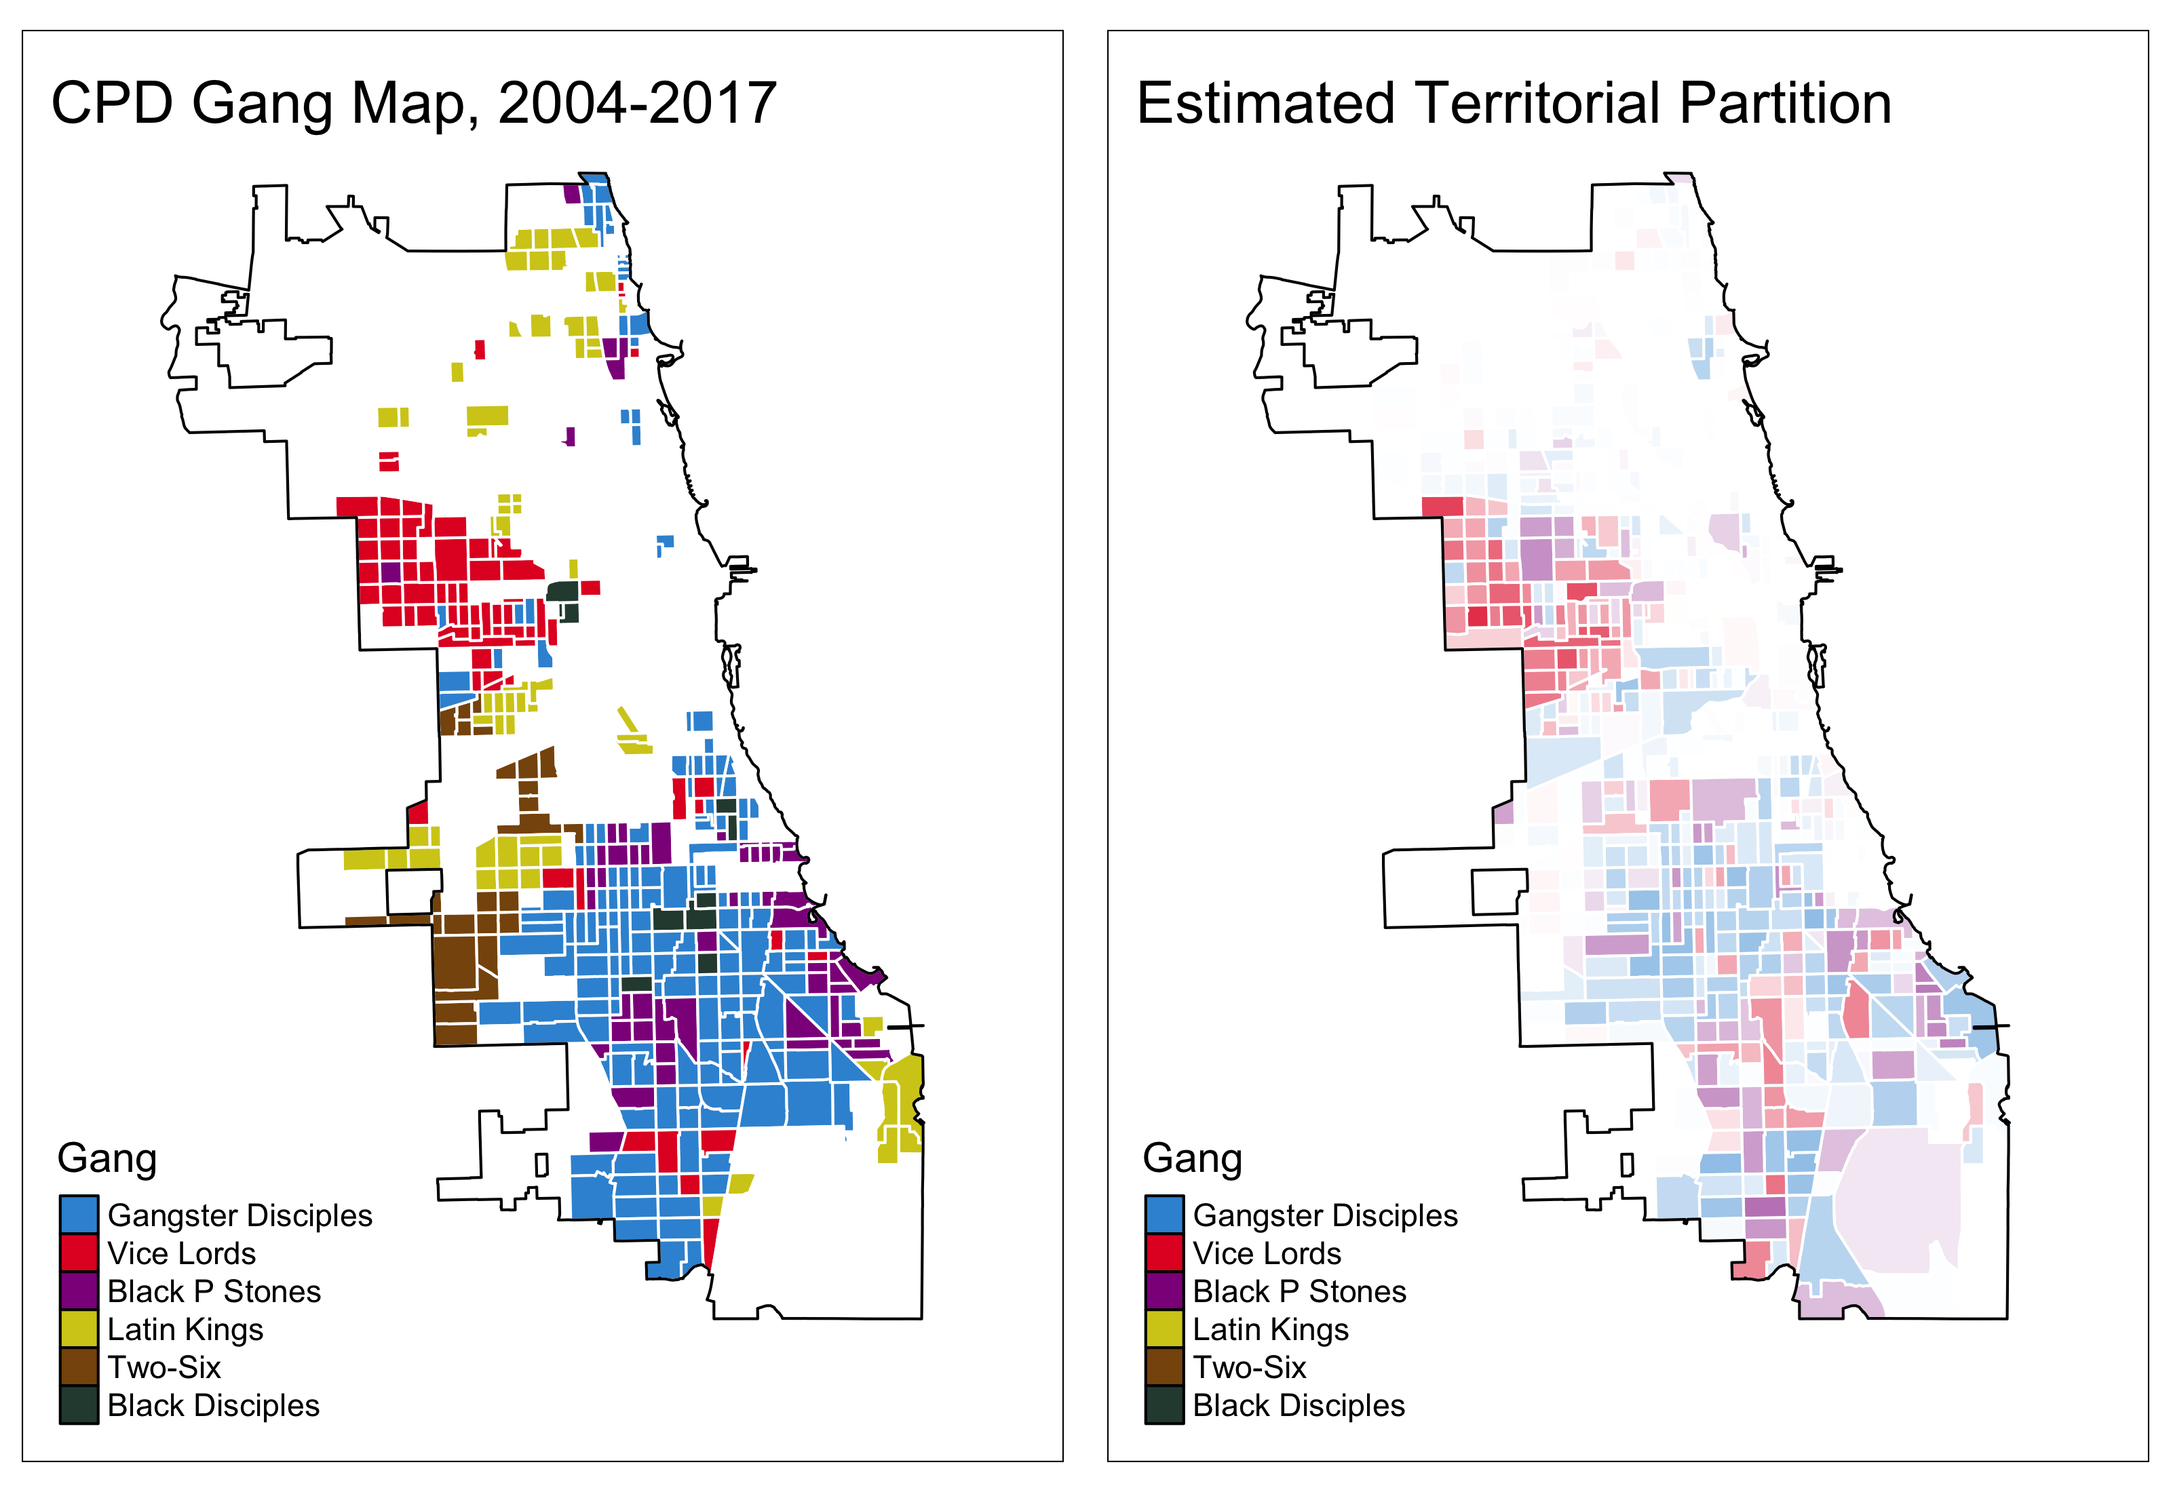
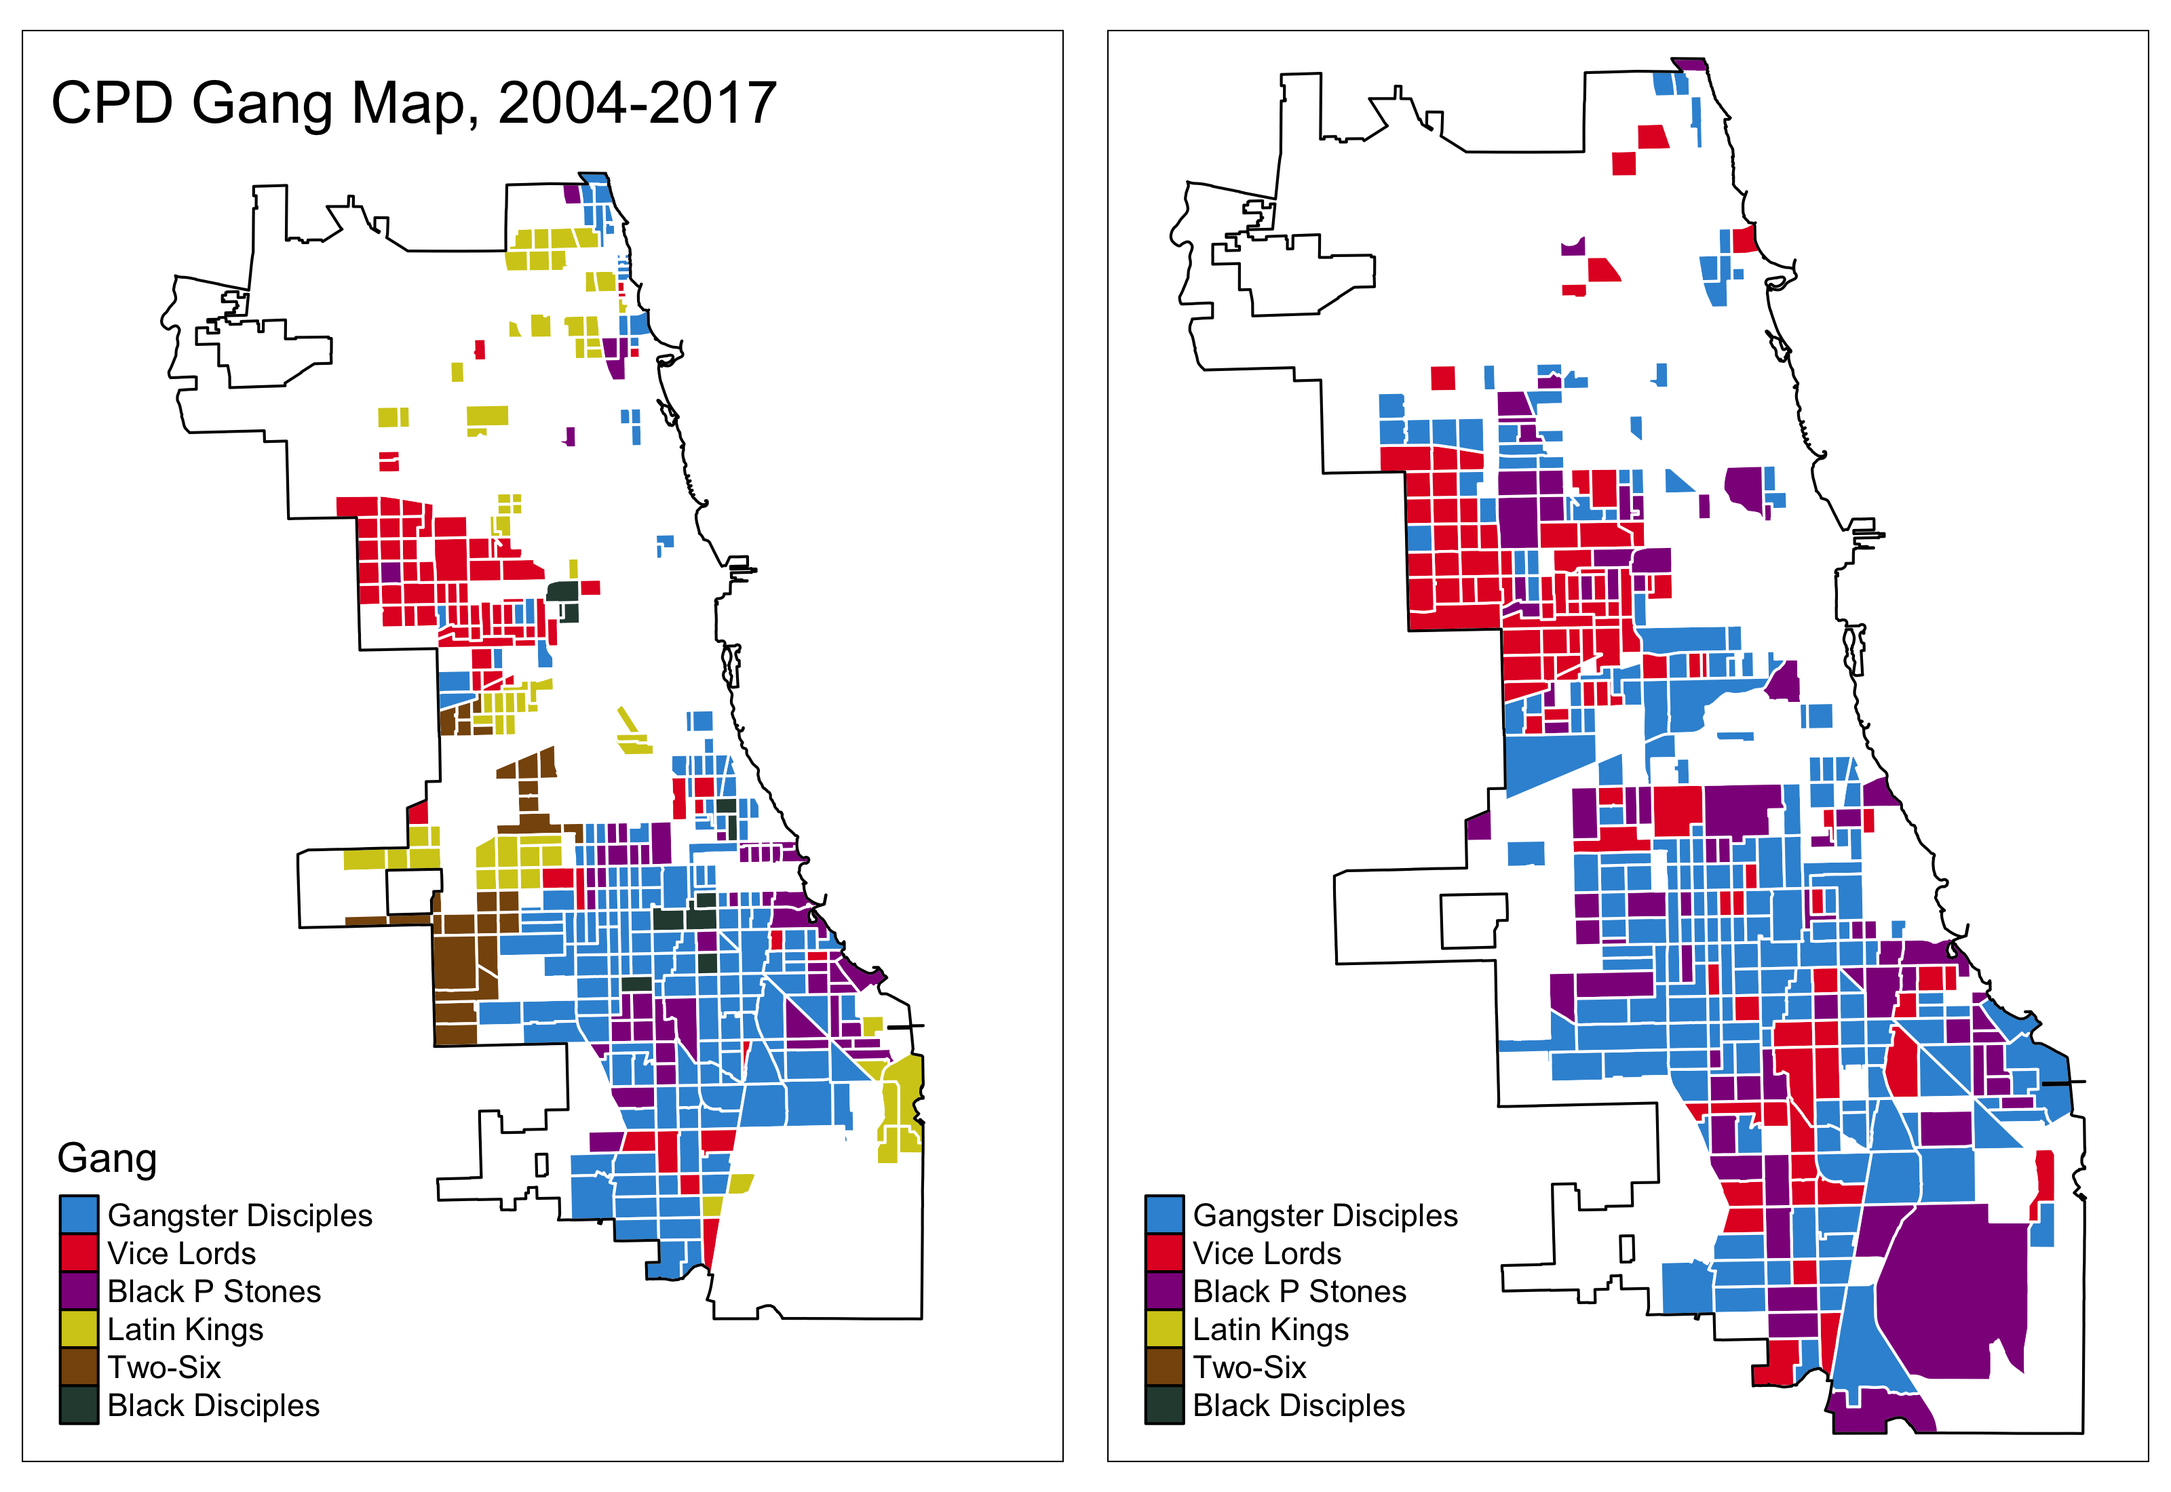
fix reveal compile

diff --git a/index.html b/index.html
@@ -494,7 +494,44 @@ document.getElementsByTagName('head')[0].appendChild(style);
 			</div>
 </section>
 
-<section><section id="introduction" class="title-slide slide level1"><h1>Gunshots and Turf Wars</h1></section><section id="measurement-problem" class="slide level2">
+<section><section id="introduction" class="title-slide slide level1"><h1>Gunshots and Turf Wars</h1><div class="fragment">
+<p><strong>Gunshots</strong></p>
+<blockquote>
+<p>“In 2006 nearly <strong>50 percent of the homicides</strong> and a large percentage of other violent crimes and property crimes committed in Chicago <strong>were attributed to street gangs</strong> that are involved in drug trafficking”</p>
+<ul>
+<li><span class="citation" data-cites="NDIC2007">National Drug Intelligence Center (2007)</span></li>
+</ul>
+</blockquote>
+<ul>
+<li>Inter- and intra-gang conflict in gang ethnographies
+<ul>
+<li><span class="citation" data-cites="Sanchez1991">Sanchez-Jankowski (1991)</span>, <span class="citation" data-cites="Decker1996">Decker (1996)</span>, <span class="citation" data-cites="Levitt2000">Levitt and Venkatesh (2000)</span>, <span class="citation" data-cites="Papachristos2009">Papachristos (2009)</span></li>
+</ul></li>
+<li>Not unique to Chicago
+<ul>
+<li><span class="citation" data-cites="Howell2018">Howell and Griffiths (2018)</span></li>
+</ul></li>
+</ul>
+</div>
+<div class="fragment">
+<p><strong>Turf Wars</strong></p>
+<blockquote>
+<p>“Gang violence is often sparked by competitive relations over <strong>turf.</strong> A gang’s turf has <strong>economic and symbolic value</strong>: the gang regulates who sells what on its street corners, and gang members take pride in controlling the blocks where they grew up. <strong>Encroaching on another gang’s turf can trigger violence</strong> and a series of retaliations as gang members avenge fallen comrades.”</p>
+<ul>
+<li><span class="citation" data-cites="Vargas2016">Vargas (2016)</span>, <em>Wounded City</em></li>
+</ul>
+</blockquote>
+<ul>
+<li>Territorial rent-seeking: racketerring, drug-selling monopolies, smuggling
+<ul>
+<li><span class="citation" data-cites="Thrasher1927">Thrasher (1927)</span>, <span class="citation" data-cites="Sanchez1991">Sanchez-Jankowski (1991)</span>, <span class="citation" data-cites="Levitt2000">Levitt and Venkatesh (2000)</span>, <span class="citation" data-cites="Venkatesh2000">Venkatesh and Levitt (2000)</span></li>
+</ul></li>
+<li>Conflict over rent streams and challenges to reputations
+<ul>
+<li><span class="citation" data-cites="Brantingham2012">Brantingham et al. (2012)</span>, <span class="citation" data-cites="Papachristos2013">Papachristos, Hureau, and Braga (2013)</span>, <span class="citation" data-cites="Vargas2016">Vargas (2016)</span>, <span class="citation" data-cites="Ebdm2018">Bueno De Mesquita (2018)</span></li>
+</ul></li>
+</ul>
+</div></section><section id="measurement-problem" class="slide level2">
 <h2>Measurement Problem</h2>
 <ul>
 <li><strong>Proposition:</strong> understanding gunshots requires understanding gangs</li>
@@ -575,7 +612,34 @@ document.getElementsByTagName('head')[0].appendChild(style);
 <h2>Bottom Line</h2>
 <p><img data-src="index_files/figure-revealjs/unnamed-chunk-9-1.png" /><!-- --></p>
 </section></section>
-<section><section id="data" class="title-slide slide level1"><h1>Data</h1></section><section id="gunshots-spatial-distribution" class="slide level2">
+<section><section id="data" class="title-slide slide level1"><h1>Data</h1><div class="fragment">
+<p><strong>Gunshots (Data):</strong> Victim-based crime reports, 2004-2017 (CLEAR)</p>
+<ul>
+<li>Illinois Uniform Crime Reporting code, latitude, longitude, date-time</li>
+<li>Extract homicides and nonfatal shootings (aggravated battery with firearm), <strong>32,236 events</strong></li>
+<li>Project into census <strong>tract-months</strong>: 861 tracts, ~4,000 residents each</li>
+</ul>
+</div>
+<div class="fragment">
+<p><strong>Turf (Validation):</strong> CPD internal reports, annual <span class="citation" data-cites="Bruhn2019">(Bruhn 2019)</span></p>
+<ul>
+<li>Report number of gangs and territorial partition</li>
+<li>Collapse panel
+<ul>
+<li>Take average territorial footprint over sample period</li>
+</ul></li>
+<li>Preprocessing
+<ul>
+<li>55 gangs total, focus on <strong>6 largest by territorial extent</strong> for validation</li>
+<li>These control 77% of all gang turf</li>
+</ul></li>
+<li>Assign a tract to a gang if
+<ol type="1">
+<li>it owns plurality of tract area and</li>
+<li>it owns at least 10 percent of tract</li>
+</ol></li>
+</ul>
+</div></section><section id="gunshots-spatial-distribution" class="slide level2">
 <h2>Gunshots, Spatial Distribution</h2>
 <p><img data-src="index_files/figure-revealjs/unnamed-chunk-11-1.png" /><!-- --></p>
 </section><section id="gunshots-panel-construction" class="slide level2">
@@ -616,7 +680,33 @@ v_N^1 &amp; \cdots &amp; \cdots &amp; \cdots &amp; v_N^T
 <h2>Turf, Panel Collapsed</h2>
 <p><img data-src="index_files/figure-revealjs/unnamed-chunk-16-1.png" /><!-- --></p>
 </section></section>
-<section><section id="model" class="title-slide slide level1"><h1>Model</h1></section><section id="varieties-of-violence" class="slide level2">
+<section><section id="model" class="title-slide slide level1"><h1>Model</h1><div class="fragment">
+<p><strong>Observables</strong></p>
+<ul>
+<li><span class="math inline">\(\mathcal{N} = \left\{1, ..., N \right\}\)</span> – districts</li>
+<li><span class="math inline">\(1, ..., T\)</span> – periods (months)</li>
+<li><span class="math inline">\(r_i\)</span> – the number of residents in territory <span class="math inline">\(i\)</span></li>
+<li><span class="math inline">\(v_i^t = x_i^t + y_i^t\)</span>
+<ul>
+<li><span class="math inline">\(y_i^t\)</span> – non-gang related shootings</li>
+<li><span class="math inline">\(x_i^t\)</span> – gang-related shootings</li>
+</ul></li>
+</ul>
+</div>
+<div class="fragment">
+<p><strong>Unobservables</strong></p>
+<ul>
+<li><span class="math inline">\(\mathcal{K} = \left\{1, ..., K \right\}\)</span> – gangs</li>
+<li><span class="math inline">\(\pi : \mathcal{N} \rightarrow \left\{ 0, \mathcal{K} \right\}\)</span> - partition function
+<ul>
+<li><span class="math inline">\(\pi(i) = 0\)</span> indicates the absence of any gang activity.</li>
+<li><span class="math inline">\(\mathcal{N}_k\)</span> – the set of territories controlled by gang <span class="math inline">\(k\)</span></li>
+<li><span class="math inline">\(n_k = | \mathcal{K}_k |\)</span> – the number of territories controlled by gang <span class="math inline">\(k\)</span></li>
+<li><span class="math inline">\(\mathcal{K}_0\)</span> – the set of unoccupied territories.</li>
+<li><span class="math inline">\(m_k\)</span> – the number of members of gang <span class="math inline">\(k\)</span></li>
+</ul></li>
+</ul>
+</div></section><section id="varieties-of-violence" class="slide level2">
 <h2>Varieties of Violence</h2>
 <p><strong>Non-Gang</strong></p>
 <ul>
@@ -869,7 +959,21 @@ b_{21} &amp; b_{22}
 \end{array}
 \]</span></p>
 </section></section>
-<section><section id="estimation" class="title-slide slide level1"><h1>Estimation</h1></section><section id="sample-covariance-matrix-construction" class="slide level2">
+<section><section id="estimation" class="title-slide slide level1"><h1>Estimation</h1><div class="fragment">
+<p><strong>Targets</strong></p>
+<ul>
+<li>Partition function, <span class="math inline">\(\pi\)</span> (membership matrix: <span class="math inline">\(\Theta\)</span>)</li>
+<li>Number of groups <span class="math inline">\(K\)</span></li>
+<li>Non-gang territory, <span class="math inline">\(\mathcal{N}_0\)</span></li>
+</ul>
+</div>
+<div class="fragment">
+<p><strong>Method</strong></p>
+<ol type="1">
+<li>Hold <span class="math inline">\(K\)</span> fixed, estimate partition (<span class="math inline">\(\color{bcOrange} J = K + 1\)</span>)</li>
+<li>Cross validate over many trial <span class="math inline">\(K\)</span> to estimate number of groups</li>
+</ol>
+</div></section><section id="sample-covariance-matrix-construction" class="slide level2">
 <h2>Sample Covariance Matrix Construction</h2>
 <p><span class="math display">\[
 \tilde{a}_{ij} = \frac{1}{N} \sum_{t=1}^T (v_i^t - \bar{v}_i) (v_j^t - \bar{v}_j)
@@ -1028,7 +1132,26 @@ U D U^T &amp;= \Theta X \Lambda X^T \Theta^T
 <li>Present 95 percent confidence intervals</li>
 </ol>
 </section></section>
-<section><section id="results" class="title-slide slide level1"><h1>Results</h1></section><section id="empirical-covariances" class="slide level2">
+<section><section id="results" class="title-slide slide level1"><h1>Results</h1><div class="fragment">
+<p><strong>Number of Gangs</strong></p>
+<ul>
+<li>3-4 gangs detected</li>
+<li>39 gangs own at least one tract according to CPD, but three largest gangs we detect occupy 57.3 of all gang turf</li>
+<li><a href="#/eigengaps">Eigengaps</a></li>
+</ul>
+</div>
+<div class="fragment">
+<p><strong>Territorial Partition</strong></p>
+<ul>
+<li>Paritition labels matched to those of Gangster Disciples, Vice Lords, and Black P Stones with highest frequency</li>
+<li>20-28 percent of census tracts are gang-occupied</li>
+<li>56-60 percent of our labels agree with those of CPD
+<ul>
+<li><strong>Baseline:</strong> 35 percent of CPD labels agree with random label permutations</li>
+</ul></li>
+<li><a href="#/cpd_match_table">Match Frequencies</a></li>
+</ul>
+</div></section><section id="empirical-covariances" class="slide level2">
 <h2>Empirical Covariances</h2>
 <p><img data-src="index_files/figure-revealjs/unnamed-chunk-18-1.png" /><!-- --></p>
 </section><section id="empirical-covariances-1" class="slide level2">
@@ -1044,10 +1167,57 @@ U D U^T &amp;= \Theta X \Lambda X^T \Theta^T
 <h2>Conflict Intensities</h2>
 <p><img data-src="index_files/figure-revealjs/unnamed-chunk-22-1.png" /><!-- --></p>
 </section></section>
-<section><section id="conclusion" class="title-slide slide level1"><h1>Conclusion</h1></section></section>
-<section><section id="thank-you" class="title-slide slide level1 aligncenter"><h1>Thank You</h1></section></section>
-<section><section id="toc" class="title-slide slide level1"><h1>Table of Contents</h1></section></section>
-<section><section id="chen" class="title-slide slide level1"><h1>Number of Groups (I)</h1></section><section id="number-of-groups-ii" class="slide level2">
+<section id="conclusion" class="title-slide slide level1"><h1>Conclusion</h1><div class="fragment">
+<p><strong>Limitations</strong></p>
+<ul>
+<li>Collapse dynamic process of border adjustment into static representation <span class="citation" data-cites="Bruhn2019">(Bruhn 2019)</span></li>
+<li>Detects largest gangs in Chicago but is unable to capture richness of gang network</li>
+</ul>
+</div>
+<div class="fragment">
+<p><strong>Extensions</strong></p>
+<ul>
+<li>Extend to other cities
+<ul>
+<li>Data is available for all large municipalities</li>
+</ul></li>
+<li>Build cross section of gang maps across United States and elsewhere(?)
+<ul>
+<li>Characterize measurement error explicitly</li>
+</ul></li>
+<li>Building block for substantive research on gangs, violence, poverty, and policing</li>
+</ul>
+</div></section>
+<section id="thank-you" class="title-slide slide level1 aligncenter"><h1>Thank You</h1></section>
+<section id="toc" class="title-slide slide level1"><h1>Table of Contents</h1><div id="left">
+<p><strong>Sections</strong></p>
+<ol type="1">
+<li><a href="#/introduction">Introduction</a></li>
+<li><a href="#/data">Data</a></li>
+<li><a href="#/model">Model</a></li>
+<li><a href="#/estimation">Estimation</a></li>
+<li><a href="#/results">Results</a></li>
+</ol>
+</div>
+<div id="right">
+<p><strong>Appendix</strong></p>
+<ol type="1">
+<li><a href="#/chen">Number of Groups</a></li>
+<li><a href="#/chen">Eigengaps</a></li>
+<li><a href="#/cpd_match_table">Match Frequencies</a></li>
+</ol>
+</div></section>
+<section><section id="chen" class="title-slide slide level1"><h1>Number of Groups (I)</h1><ul>
+<li>Rectangular subset of <span class="math inline">\(\tilde{A}\)</span>, <span class="math inline">\(\tilde{A}^{(-v, v)} = \tilde{A}^{(\mathcal{N}_{-v}, \mathcal{N})}\)</span></li>
+<li>Theoretical analogue <span class="math display">\[
+Q^{(-v, v)} = \Theta^{(-v, v)} B \Theta
+\]</span></li>
+<li>Eigenstructure of <span class="math inline">\(\left( Q^{(-v, v)} \right)^T Q\)</span> <span class="math display">\[\begin{align*}
+\left( Q^{(-v, v)} \right)^T Q &amp;= \Theta B^T \left( \Theta^{(-v, v)} \right)^T \Theta^{(-v, v)} B \Theta^T \\
+&amp;= \Theta B^T \left( \Delta^{(-v, -v)} \right)^2 B \Theta^T .
+\end{align*}\]</span></li>
+<li>Eigendecompose using right singular values of <span class="math inline">\(Q^{(-v, v)}\)</span> and k-means cluster to produce membership estimates <span class="math inline">\(\hat{\Theta}(v)\)</span></li>
+</ul></section><section id="number-of-groups-ii" class="slide level2">
 <h2>Number of Groups (II)</h2>
 <ul>
 <li>Estimate connectivity matrix <span class="math display">\[
@@ -1077,7 +1247,7 @@ L_v(\tilde{A}, \hat{A}(v)) = \left\lVert \left( \tilde{A}^{(v,v)} - \text{diag}(
 <p><a href="#/toc">Back (TOC)</a></p>
 <!-- hide references -->
 <hr style="height:30em; visibility:hidden;" />
-<div id="refs" class="references">
+<div id="refs" class="references" role="doc-bibliography">
 <div id="ref-Ahn2013">
 <p>Ahn, Seung C., and Alex R. Horenstein. 2013. “Eigenvalue Ratio Test for the Number of Factors.” <em>Econometrica</em> 81 (3): 1203–27.</p>
 </div>
@@ -1112,7 +1282,7 @@ L_v(\tilde{A}, \hat{A}(v)) = \left\lVert \left( \tilde{A}^{(v,v)} - \text{diag}(
 <p>Lei, Jing, and Alessandro Rinaldo. 2015. “Consistency of Spectral Clustering in Stochastic Block Models.” <em>The Annals of Statistics</em> 43 (1): 215–37.</p>
 </div>
 <div id="ref-Levitt2000">
-<p>Levitt, Steven D, and Sudhir Alladi Venkatesh. 2000. “An economic analysis of a drug-selling gang’s finances.” <em>Quarterly Journal of Economics</em>. JSTOR, 755–89.</p>
+<p>Levitt, Steven D, and Sudhir Alladi Venkatesh. 2000. “An economic analysis of a drug-selling gang’s finances.” <em>Quarterly Journal of Economics</em>, 755–89.</p>
 </div>
 <div id="ref-Luxberg2007">
 <p>Luxburg, Ulrike von. 2007. “A tutorial on spectral clustering.” <em>Statistics and Computing</em> 17 (4): 395–416.</p>
@@ -1148,7 +1318,7 @@ L_v(\tilde{A}, \hat{A}(v)) = \left\lVert \left( \tilde{A}^{(v,v)} - \text{diag}(
 <p>Vargas, Robert. 2016. <em>Wounded city: Violent turf wars in a Chicago barrio</em>. Oxford University Press.</p>
 </div>
 <div id="ref-Venkatesh2000">
-<p>Venkatesh, Sudhir Alladi, and Steven D. Levitt. 2000. “&quot;Are we a family or a business?&quot; History and disjuncture in the urban American street gang.”</p>
+<p>Venkatesh, Sudhir Alladi, and Steven D. Levitt. 2000. “"Are we a family or a business?" History and disjuncture in the urban American street gang.”</p>
 </div>
 </div>
 </section></section>
